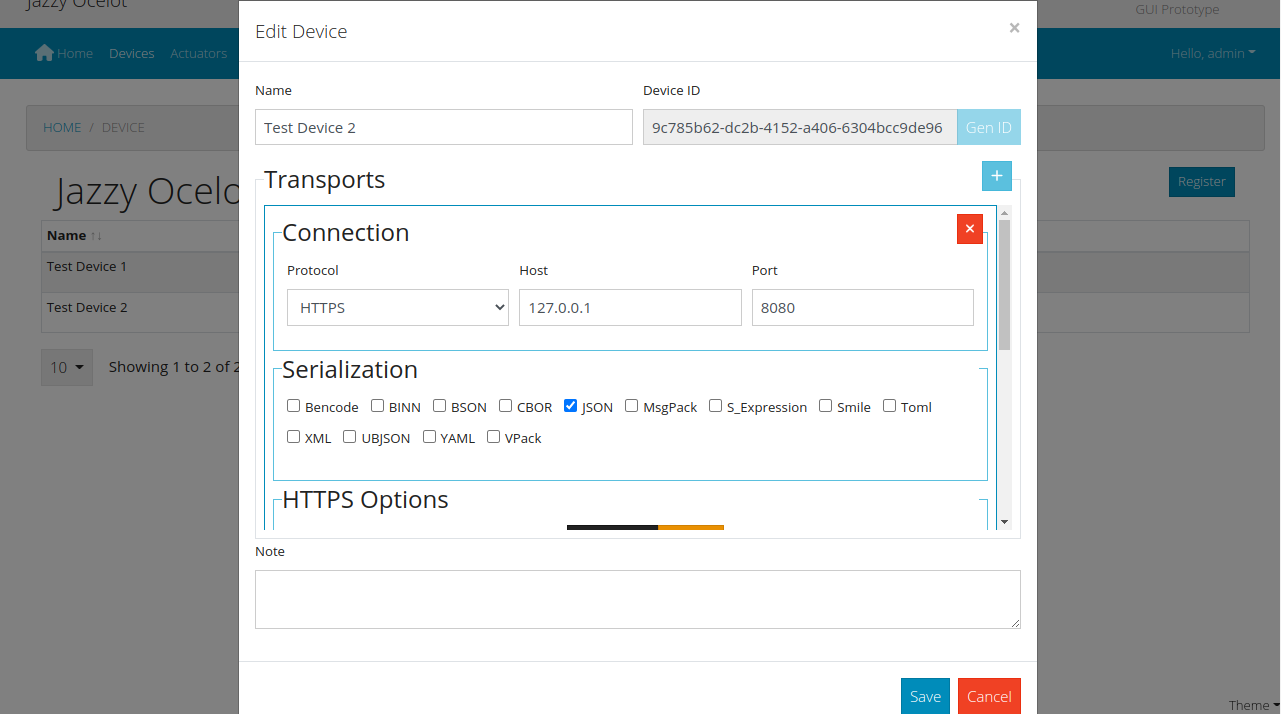
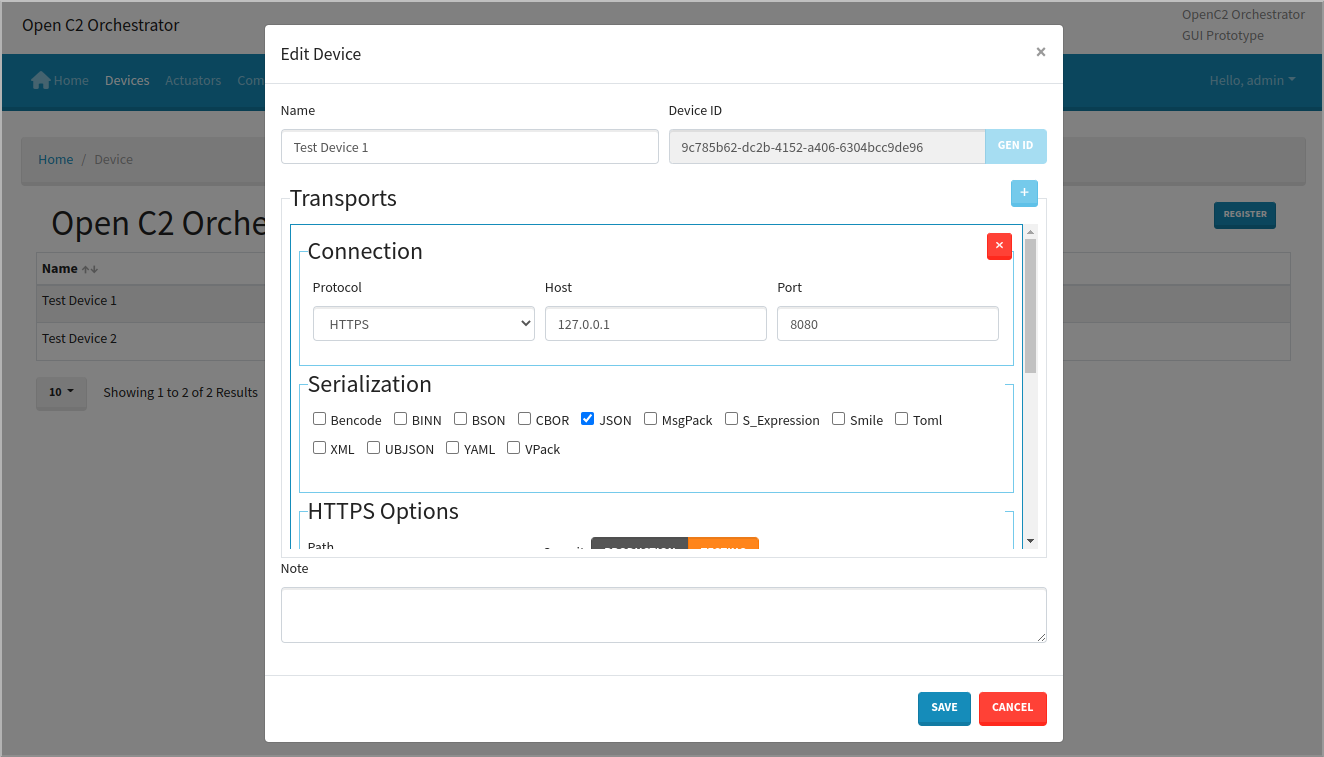
Added new screen shots

Changed region(s): [[0.0, 0.0, 1.0, 1.0], [0.4372, 0.7087, 0.5933, 0.7703], [0.9055, 0.2157, 0.968, 0.3081]]

diff --git a/docs/WalkThrough.md b/docs/WalkThrough.md
@@ -7,7 +7,7 @@ Orchestrator. The Orchestrator implements the OpenC2
 function. The following diagram provides a high-level
 overview of the OIF Orchestrator's construction:
 
-![OIF Orchestrator Block Diagram](images/orch-block-diagram.png)
+![OIF Orchestrator Block Diagram](images/oif-orc-block-diagram.png)
 
 This walk through focuses on the use of the HTTP / HTTPS
 transfer protocol for message exchange between the
@@ -118,23 +118,21 @@ review responses The GUI is accessed at
 `http://localhost:8080`.  Browsing to the User GUI location brings up the login
 screen:
 
-![OIF Orchestrator User Login](images/oif-orch-login.png)
+![OIF Orchestrator User Login](images/oif-orc-login.png)
 
 The default login credentials are 
  - Username: `admin`
  - Password: `password`
 
-After login to the User GUI you will seen the home screen
+After login to the User GUI you will see the home screen
 with the system menu. A `theme` menu is available in the
 bottom right corner to alter the GUI color scheme.
-The `Hello, {USER}` menu at the right provides access to logoff,
+The `Hello, {USER}` menu at the right provides access to log off,
 password change, and system administration features.
 Information about the system administration features is
 provided in the [Orchestrator README file](../README.md/#user-features).
 
-
-![OIF Orchestrator Home Screen](images/oif-orch-home-screen.png)
-
+![OIF Orchestrator Home Screen](images/oif-orc-home.png)  
 
 ## 6) Create Devices and  Actuators
 
@@ -147,9 +145,11 @@ specifications](https://www.oasis-open.org/committees/tc_home.php?wg_abbrev=open
 it's an OIF construct. The following diagram illustrates the
 organization of an OIF Device:
 
+<table><tr><td style="padding:0;">
+
 ![OIF Device Block Diagram](./images/dev-block-diagram.png)
 
-
+</td></tr></table>
 
 Devices and their associated actuators have to be registered
 in the OIF Orchestrator before interactions with them are
@@ -179,8 +179,7 @@ The procedure to create a new device is:
 1. Enter the Device's IP address and Port.
    - Default port for HTTPS Transfer is 5001
    - Default port for MQTT Transfer is 1883
-   - Default host/broker for MQTT Transfer is 91.121.93.94 (test.mosquitto.org)
-   - <b>Note</b>: The test.mosquitto.org MQTT host/broker is for testing purposes only. 
+   - Host: Enter your MQTT Broker
 1. Select the transfer protocol to use with this device.
 1. Select the message serialization(s) to use with this device.
    JSON is the default serialization for OpenC2.
@@ -192,16 +191,9 @@ The procedure to create a new device is:
 
 The screenshots below show the registered devices list and device
 editing dialog:
+/home/matt/Documents/SB/oif-orc-home-screen.png
 
-![Orchestrator Registered Devices List](images/oif-orc-dev-reg-screen.png)
-
-<hr>
-
-![Orchestrator Device Editing Dialog](images/oif-orc-edit-device-https.png)
-
-<hr>
-
-![Orchestrator Device Editing Dialog](images/oif-orc-edit-device-mqtt.png)
+![Orchestrator Registered Devices List](images/oif-orc-devices.png)
 
 Device registration notes:
 
@@ -212,7 +204,21 @@ Device registration notes:
 - The red `x`  button in the registration dialog deletes the
   associated transport interfaces from the device.
 
+#### HTTPS Registration Screen Shots
 
+![Orchestrator Device Editing Dialog - HTTP](images/oif-orc-edit-device-https.png)
+
+![Orchestrator Device Editing Dialog - HTTP Options](images/oif-orc-edit-device-https-options.png)
+
+![Orchestrator Device Editing Dialog - HTTP Auth](images/oif-orc-edit-device-https-auth.png)
+
+#### MQTT Registration Screen Shots
+
+![Orchestrator Device Editing Dialog - MQTT](images/oif-orc-edit-device-mqtt.png)
+
+![Orchestrator Device Editing Dialog - MQTT Options](images/oif-orc-edit-device-mqtt-options.png)
+
+![Orchestrator Device Editing Dialog - MQTT Authentication](images/oif-orc-edit-device-mqtt-auth.png)
 
 ### Registering an Actuator with the OIF
 
@@ -220,10 +226,9 @@ The process for registering an actuator is similar to that
 for a device. Every actuator is associated with a device, so
 devices **must** be registered before their actuators. A
 device can have multiple actuators; each actuator is
-associated with a single device. The process for registering
-an actuator is:
+associated with a single device. 
 
-
+The process for registering an actuator is:
 1. Select `Actuators` from the Orchestrator menu; this
    brings up
   the list of registered actuators.
@@ -241,7 +246,9 @@ an actuator is:
    selection dialog to choose the appropriate schema file.
    1. Examples (Found under `/docs/schemas` in the openc2-oif-orchestrator repository)
       1. [OpenC2 SLPF Schema](https://github.com/ScreamBun/openc2-oif-orchestrator/blob/master/docs/schemas/openc2_slpf-v1.0.1.json)
-      2. [OpenC2 Language Spec Schema](https://github.com/ScreamBun/openc2-oif-orchestrator/blob/master/docs/schemas/openc2_lang-v1.0.1.json)
+         2. [About the Stateless Packet Filtering Actuator Profile and it's capabilities](https://docs.oasis-open.org/openc2/oc2slpf/v1.0/cs01/oc2slpf-v1.0-cs01.html) 
+      1. [OpenC2 Language Spec Schema](https://github.com/ScreamBun/openc2-oif-orchestrator/blob/master/docs/schemas/openc2_lang-v1.0.1.json)
+         2. Provided to allow the user to create their own Actuator Profile
    2. Experimental Examples - Coming Soon
       1. SBOM 
       2. OSQuery
@@ -252,22 +259,19 @@ an actuator is:
 The screenshots below show the registered actuators list and actuator
 editing dialog:
 
-![Orchestrator Registered Actuators List](images/oif-orch-actuator-list.png)
+![Orchestrator Registered Actuators](images/oif-orc-actuators.png)
 
-<hr>
-
-![Orchestrator Actuator Editing Dialog](images/oif-orch-actuator-registration-populated.png)
-
-
+![Orchestrator Actuator Editing Dialog](images/oif-orc-actuator-edit.png)
 
 ## 7) Generating Commands and Viewing Responses
 
 Prerequisites for processing commands and responses:
-* A device has been registered
-* An actuator has been registered and associated with a
+- A device has been registered
+- An actuator has been registered and associated with a
   device
-* The OIF Orchestrator and Device are running, with a network
-  connection between them
+- The OIF Orchestrator and Device are running, with a network
+  connection between them 
+  - Link to the OIF Device walk through coming soon 
 
 The OIF Orchestrator has main menu functions to generate
 commands (`Command Generator`), and to view the history of
@@ -278,6 +282,9 @@ commands and associated responses (`Commands`).
 The steps to generate and send commands are as follows:
 
 1. Select `Command Generator` from the main menu.
+
+![Orchestrator Menu - Command Generator](images/oif-orc-menu-command-gen.png)
+
 2. From the pull-down labeled `Schema`, select the schema for
   the desired actuator or actuator profile; the schema will
   be loaded in the pane below for reference.
@@ -302,22 +309,23 @@ The steps to generate and send commands are as follows:
 8. A pop-up notification will appear reporting the command is
   sent, or any errors that occur.
 
+![Command Generator](images/oif-orc-command-gen.png)
 
-![Command Generator Screenshot](images/oif-orch-command-sent.png)
+### Viewing Previous Commands / Response History
 
-### Viewing Command / Response History
-
-To view commands and their associated responses, select
-`Commands` from the main menu. A list will appear of all
+To view previous commands and their associated responses, select
+`Previous Commands` from the main menu. A list will appear of all
 commands that have been sent.
 
-![Command History List](images/oif-orch-command-history.png)
+![Orchestrator Menu - Previous Commands](images/oif-orc-menu-prev-commands.png)
+
+![Previous Commands](images/oif-orc-prev-commands.png)
 
 Click on the `Info` button for any command to see the
 command / response history (the image below was edited to show
 complete command and response together).
 
-![Command / Response Details Example](images/oif-orch-cmd-rsps.png)
+![Previous Command Response Details](images/oif-orc-prev-command-details.png)
 
 ## (TBSL) Message Transfer via MQTT Publish / Subscribe
 
@@ -326,20 +334,21 @@ complete command and response together).
   the `MQTT_TOPICS` environment variable. Read the MQTT
   Topics section [here](/orchestrator/transport/mqtt/ReadMe.md)
 
+## Helpful Documentation
 
-## Container/Services ReadMe
-
-If needed, the ReadMe files for the OIF Orchestrator's
-components are linked here:
-
-|Orchestrator   | Transport  | Logger  |
-|:-:|:-:|:-:|
-| [Core](../orchestrator/core/ReadMe.md)  | [HTTPS](../orchestrator/transport/https/README.md)  | [GUI](../logger/gui/ReadMe.md)  |
-| [GUI](../orchestrator/gui/client/ReadMe.md)  | [MQTT](../orchestrator/transport/mqtt/ReadMe.md)  | [Server](../logger/server/ReadMe.md)  |
+If needed, the ReadMe files for the OIF Orchestrator's components are linked here:
+- Orchestrator
+  - [GUI](../orchestrator/gui/ReadMe.md)
+  - [Core](../orchestrator/producer-core/ReadMe.md) 
+- Transports
+  - [HTTPS](../orchestrator/transport/https/ReadMe.md)
+  - [MQTT](../orchestrator/transport/mqtt/ReadMe.md)
+- Logger
+  - [GUI](../logger/gui/ReadMe.md)
+  - [Server](../logger/server/ReadMe.md)
 
 Tutorials are available for extending the OIF:
-
-* Adding a [new serialization](./Serializations.md)
-* Adding a [new transport protocol](./Transport.md)
+- Adding a [new serialization](./Serializations.md)
+- Adding a [new transport protocol](./Transport.md)
 
 [Top of Page](#openC2-integration-framework-(oif)-orchestrator-walk-through)

diff --git a/docs/ReadMe.md b/docs/ReadMe.md
@@ -23,7 +23,7 @@ more detailed start-up explanation can be found in
 The following diagram provides a high-level
 overview of the OIF Orchestrator's construction:
 
-![OIF Orchestrator Block Diagram](images/orch-block-diagram.png)
+![OIF Orchestrator Block Diagram](images/oif-orc-block-diagram.png)
 
 ## Container/Services ReadMe
 
